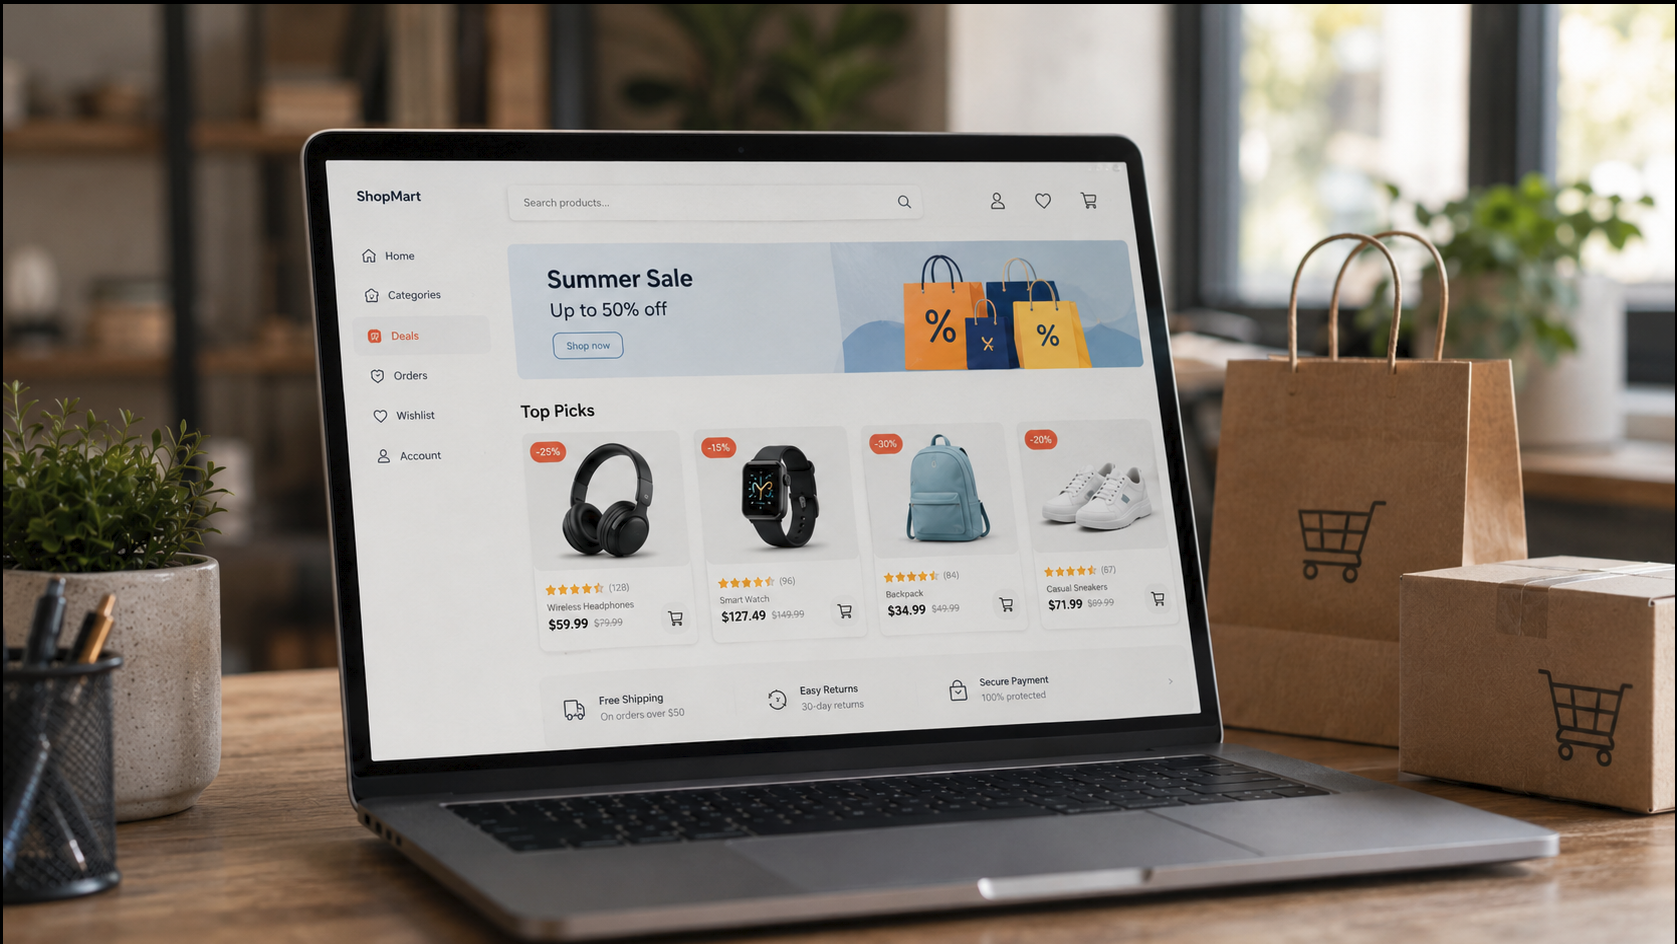
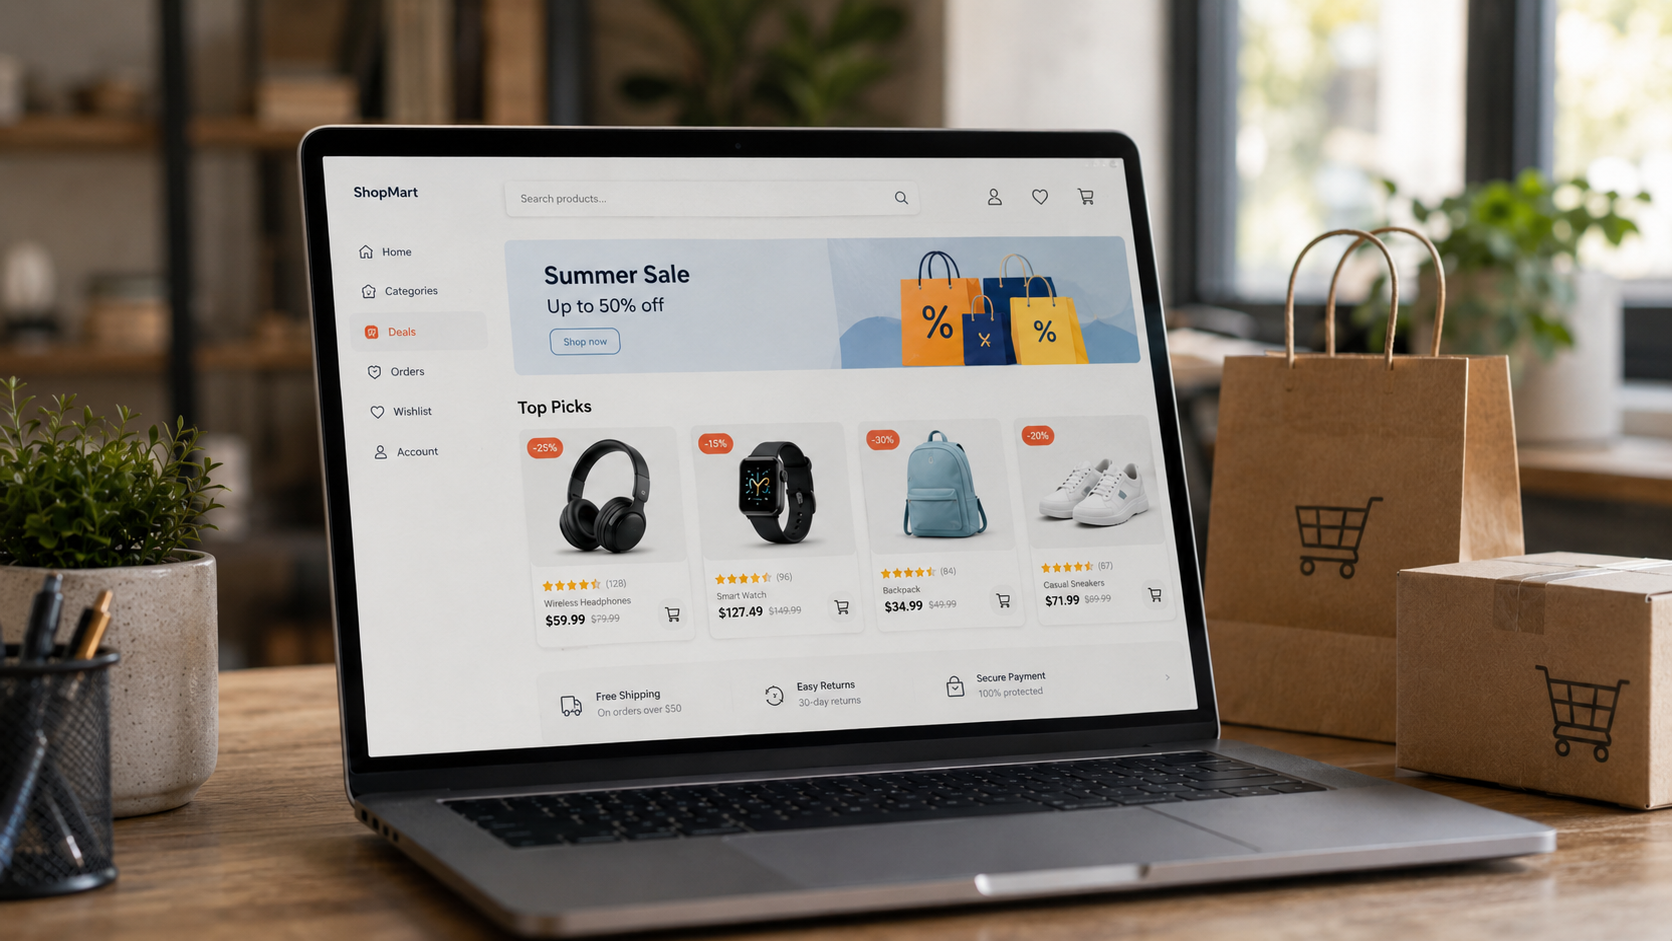
Modified the olist projects description.

diff --git a/projects/olist-discount-ratings-analysis.html b/projects/olist-discount-ratings-analysis.html
@@ -80,49 +80,33 @@
             <h2 id="approach">Approach</h2>
 
             <p>
-              I built an end-to-end analytical pipeline from the relational Olist
-              e-commerce dataset using SQL and DuckDB. Historical reference prices were
-              constructed from strictly prior seller-product price observations to avoid
-              using future information, producing a final analytical dataset of 31,004
-              orders.
+              I built an end-to-end analytical pipeline from the relational Olist dataset 
+              using SQL and DuckDB, creating historical reference prices from each product's 
+              prior pricing history. I then used statistical modelling to compare discounted 
+              and non-discounted purchases while accounting for differences between products,
+              sellers, and changes over time.
             </p>
-
-            <p>
-              The primary historical analysis used a fixed-effects regression controlling
-              for seller-product and month effects, with standard errors clustered by
-              seller-product pair. A rank-based sensitivity analysis and exploratory
-              discount-depth analysis were used to evaluate whether the overall conclusion
-              was sensitive to the primary modeling approach.
-            </p>
-
 
             <h2 id="result">Result</h2>
 
             <p>
-              Discounted purchases were associated with ratings 0.008 points higher on
-              average after accounting for seller-product and month fixed effects. The
-              95% confidence interval ranged from -0.057 to 0.074 rating points
-              (p = 0.804).
+              Discounted purchases were associated with ratings just 0.008 points higher on average,
+               with a 95% confidence interval from -0.057 to 0.074. This entire range was well within 
+               the project's 0.3 rating-point threshold for a practically meaningful difference.
             </p>
 
             <p>
-              The entire confidence interval fell within the pre-specified 0.3
-              rating-point threshold for practical importance. The historical analysis
-              therefore found no evidence of a materially meaningful association between
-              discounting and customer ratings.
-            </p>
-            <p>
               <strong>Business recommendation:</strong> Based on the historical evidence,
-              sellers can use discounting without expecting a material change in customer
-              ratings. Pricing decisions should therefore focus more heavily on outcomes
-              such as conversion and profitability rather than on concern that discounting
-              itself will meaningfully damage product ratings.
+               sellers can use discounts without expecting a meaningful change in customer 
+               ratings. Pricing decisions should instead focus on outcomes such as conversion and 
+               profitability.
             </p>
 
             <p>
               Because the historical data were not generated through random assignment,
               these results describe an association rather than a causal effect.
             </p>
+            
             <h2 id="experiment">Experiment Design</h2>
             <p>
               To answer the causal question, I designed a prospective randomized A/B test
